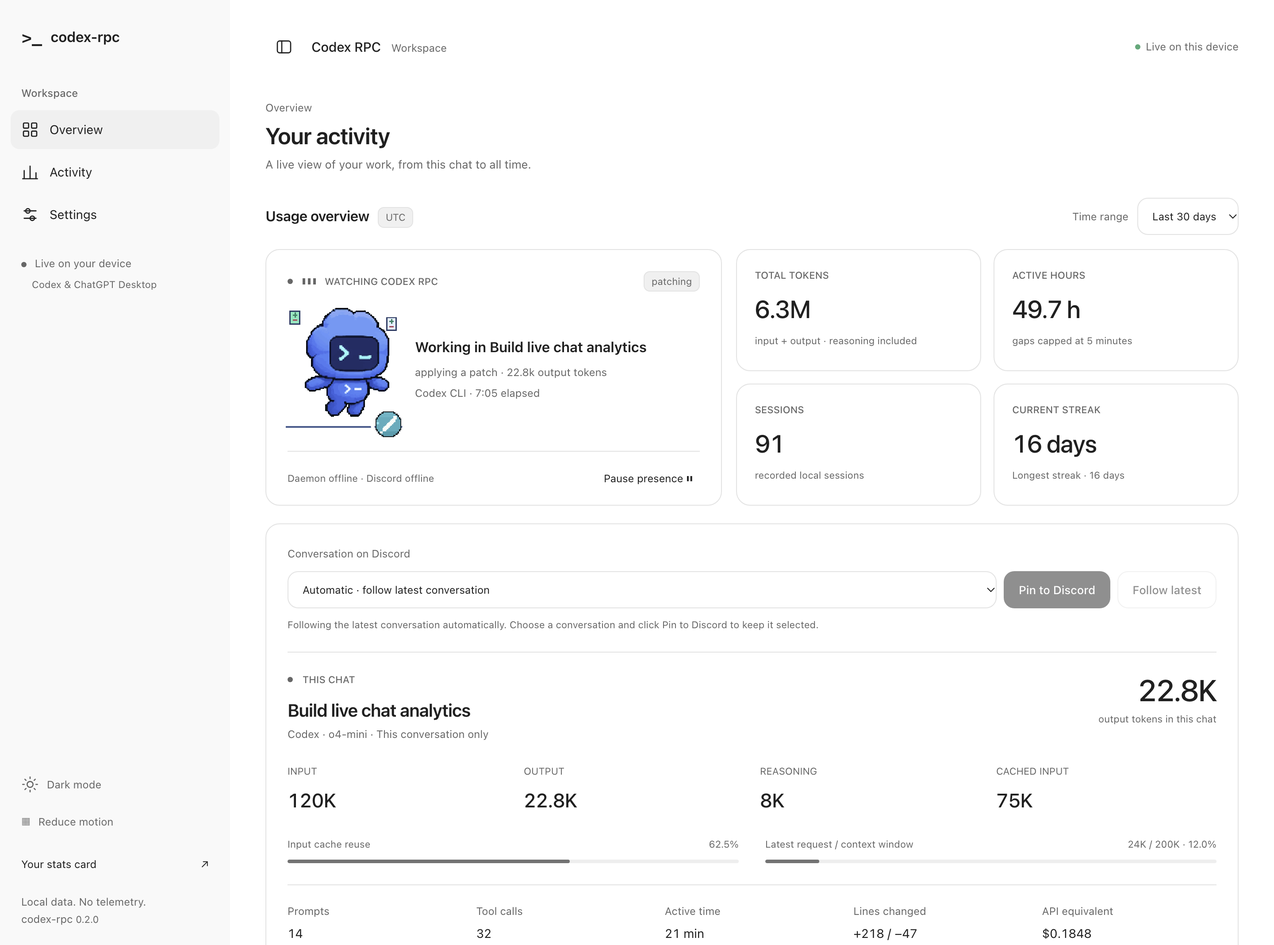
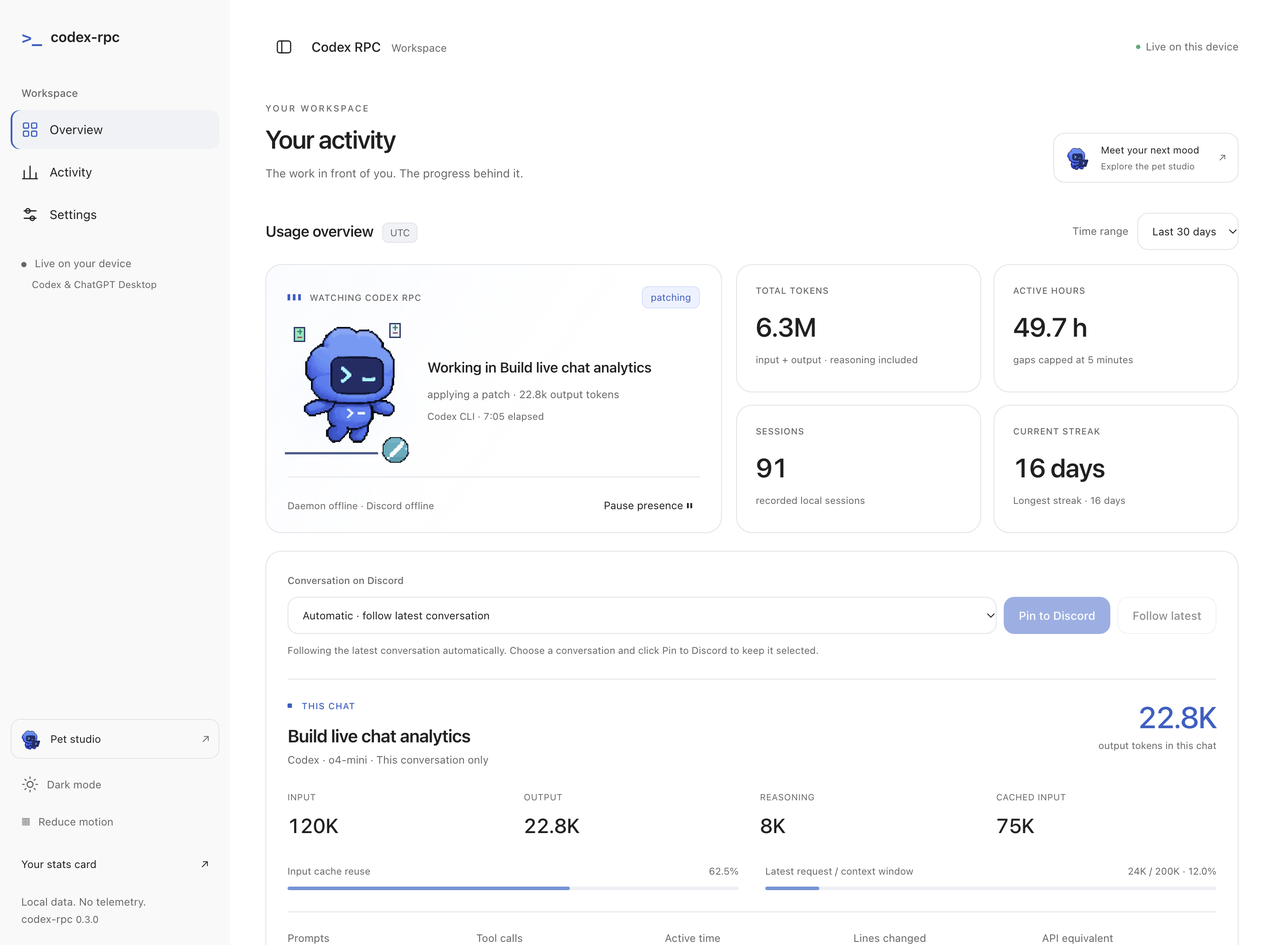
release: prepare 0.3.0 downloads, updated README and pet studio guides

diff --git a/scripts/prepare-release.js b/scripts/prepare-release.js
@@ -3,6 +3,7 @@ import path from "node:path";
 import { execFileSync } from "node:child_process";
 import { createHash } from "node:crypto";
 import { fileURLToPath } from "node:url";
+import { animationCatalog } from "../src/assets/generate-pet-gifs.js";
 const root = fileURLToPath(new URL("../", import.meta.url));
 process.chdir(root);
 const pkg = JSON.parse(fs.readFileSync("package.json", "utf8"));
@@ -18,7 +19,7 @@ const npm = process.platform === "win32" ? "npm.cmd" : "npm";
 const npmCLI = process.env.npm_execpath;
 if (process.platform === "win32" && !npmCLI) throw Error("Run through npm run release:prepare on Windows");
 const packed = JSON.parse(execFileSync(npmCLI ? process.execPath : npm, [...(npmCLI ? [npmCLI] : []), "pack", "--json", "--pack-destination", directory], { encoding: "utf8" }))[0];
-for (const required of ["src/selection.js", "src/timeline.js", "src/watcher.js", "src/config.js", "src/presence-scheduler.js", "src/recaps.js", "bin/codex-rpc.js", "assets/pet/codex-pet-writing.gif", "assets/pet/codex-pet-patching.gif", "assets/pet/codex-pet-error.gif", "assets/pet/codex-pet-done.gif"]) {
+for (const required of [...animationCatalog.flatMap(({ id }) => [`assets/pet/codex-pet-${id}.gif`, `assets/pet/codex-pet-${id}.svg`]), "assets/pet/animation-gallery.js", "assets/pet/animation-catalog.json", "src/selection.js", "src/timeline.js", "src/watcher.js", "src/config.js", "src/presence-scheduler.js", "src/recaps.js", "bin/codex-rpc.js", "assets/pet/codex-pet-writing.gif", "assets/pet/codex-pet-patching.gif", "assets/pet/codex-pet-error.gif", "assets/pet/codex-pet-done.gif"]) {
   if (!packed.files.some((entry) => entry.path === required)) throw Error(`Missing package file: ${required}`);
 }
 // Stable filename keeps GitHub /releases/latest/download links evergreen.

diff --git a/README.md b/README.md
@@ -8,7 +8,7 @@
 
 Discord Rich Presence and local analytics for Codex, with lightweight ChatGPT Desktop detection.
 
-[Download latest](https://github.com/alphasayshello/codex-rpc/releases/latest) · [Release notes](docs/RELEASE-NOTES-v0.2.0.md) · [MIT](LICENSE) · [Security](SECURITY.md)
+[Download latest](https://github.com/alphasayshello/codex-rpc/releases/latest) · [Release notes](docs/RELEASE-NOTES-v0.3.0.md) · [MIT](LICENSE) · [Security](SECURITY.md)
 
 Node 18+ · zero runtime dependencies · no accounts · no telemetry
 
@@ -64,16 +64,28 @@ Thinking shows `Pondering solution... (Elapsed: 1:05)`. Shell work shows `Runnin
 | State | Preview | What it does |
 | --- | --- | --- |
 | Writing | <img src="assets/pet/codex-pet-writing.gif" width="88" alt="Steady seated typing" /> | Alternating paw presses; head, body and laptop stay still. |
-| Thinking | <img src="assets/pet/codex-pet-thinking.gif" width="88" alt="Planning" /> | Pacing, planning glyphs and a thoughtful pose. |
-| Patching | <img src="assets/pet/codex-pet-patching.gif" width="88" alt="Applying a patch" /> | Stamping and sliding pixel file cards. |
+| Thinking | <img src="assets/pet/codex-pet-thinking.gif" width="88" alt="Planning" /> | A gentle pace, orbiting planning pixels and a steady thoughtful expression. |
+| Patching | <img src="assets/pet/codex-pet-patching.gif" width="88" alt="Applying a patch" /> | Focused movement and sliding plus/minus file cards. |
 | Error | <img src="assets/pet/codex-pet-error.gif" width="88" alt="An error needs attention" /> | Smoke, an alert and the original panic expression. |
 | Done | <img src="assets/pet/codex-pet-done.gif" width="88" alt="Celebrating" /> | A short celebration, then idle. |
 | Idle | <img src="assets/pet/codex-pet-idle.gif" width="88" alt="Sleeping" /> | Sleeping, breathing and floating Z pixels. |
-| Waiting | <img src="assets/pet/codex-pet-waiting.gif" width="88" alt="Waiting for approval" /> | A separate approval/attention wave. |
+| Waiting | <img src="assets/pet/codex-pet-waiting.gif" width="88" alt="Waiting for approval" /> | A separate attention pose with bobbing speech-bubble dots. |
 
-The mascot is the **original blue Codex Pet**, composed from its existing sprite artwork. Loops run at 10 fps with a consistent expression within each state. Static previews and animated pixel badges ship too. Legacy `working` remains an alias for `writing`.
+The mascot is the **original blue Codex Pet**, composed from its existing sprite artwork. All 19 scenes run at 20 fps with periodic motion and a consistent expression within each scene. Static previews and animated pixel badges ship too. Legacy `working` remains an alias for `writing`.
 
-Preview everything in **Settings → Codex Pet Assets → Preview animated pets**, or open `/assets/pet/animation-gallery.html` on your local dashboard. **Reduce motion** freezes bundled artwork and disables effects; OS reduced-motion preferences are respected. Live updates preserve animations already playing.
+**Twelve extra scenes:** reading, searching, terminal, testing, building, installing, reviewing, debugging, connecting, focus, celebrating and cozy idle.
+
+<table>
+<tr><td align="center"><img src="assets/pet/codex-pet-reading.gif" width="104" alt="Reading a pixel book" /><br>Reading</td><td align="center"><img src="assets/pet/codex-pet-terminal.gif" width="104" alt="Typing beside a terminal" /><br>Terminal</td><td align="center"><img src="assets/pet/codex-pet-testing.gif" width="104" alt="Checking a test matrix" /><br>Testing</td><td align="center"><img src="assets/pet/codex-pet-idle-cozy.gif" width="104" alt="Sleeping under moonlight" /><br>Cozy idle</td></tr>
+</table>
+
+Real tool metadata selects reading, searching, terminal, testing, building, installing and reviewing automatically. Missing metadata keeps the normal writing scene. Extra decorative scenes are available as asset overrides; the daemon never invents activity or cycles them at random.
+
+Open **Pet studio** in the dashboard for a larger preview, search, category filters, dark/light/checkerboard backgrounds, GIF/SVG downloads and copyable hosted URLs. In **Settings → Codex Pet Assets**, choose a target state and click a thumbnail to change its art, then **Save changes**. Automatic scene selection continues to follow your tools. The studio is also available at `/assets/pet/animation-gallery.html`.
+
+**Make your own pet.** Pet Studio includes an editable character brief and a one-pass ChatGPT image prompt with the exact 1536 × 1872 transparent PNG sheet, 8 × 9 grid, pose map and typing alignment requirements. Copy it into ChatGPT with your character reference and the downloadable layout guide. Generated sheets require manual validation and integration; the studio does not automatically replace the bundled artwork. [Format guide](docs/PET-STUDIO.md). **Reduce motion** freezes bundled artwork and disables effects; OS reduced-motion preferences are respected. Live updates preserve animations already playing.
+
+<img src="docs/pet-studio.png" width="1000" alt="Local Pet studio with large animated preview, motion controls and a browsable collection" />
 
 Artwork provenance and composition details: [asset manifest](assets/pet/manifest.json) · [third-party notices](THIRD_PARTY_NOTICES.md).
 
@@ -86,7 +98,7 @@ Artwork provenance and composition details: [asset manifest](assets/pet/manifest
 - **Review each turn.** Recaps show output-token deltas, observed tool calls, elapsed time and outcomes. Missing baselines stay unknown.
 - **Explore lifetime usage.** Tokens, sessions, active hours, streaks, languages, tools, hotspots, hourly patterns and estimated cost.
 - **Choose a range.** 7d, 30d, 90d, 1y or all time. The current-chat panel stays independent of the history range.
-- **Make it yours.** Dark/light themes, mobile navigation, keyboard-accessible settings and seven settings tabs.
+- **Make it yours.** Dark/light themes, mobile navigation, keyboard-accessible settings and seven settings tabs. A visual picker offers 19 pet scenes, with pixel badges and a dedicated preview studio.
 
 The dashboard binds to loopback only and updates over SSE. Optional Electron wraps the same dashboard with Node integration disabled:
 
@@ -108,7 +120,7 @@ Electron is optional and is not part of the normal CLI runtime.
 | `chat [--json] [--watch]` | Current-chat usage, tools, cost and context. |
 | `usage [--watch]` | Heatmap, usage bars, hourly activity, tools and languages. |
 | `insights` | Weekly trends, hotspots, pace and streak context. |
-| `preview` | Card text and asset URLs for six scenes plus waiting. |
+| `preview [--all]` | Exact card text and asset URLs; `--all` includes all 19 scenes. |
 | `serve [--port 47474]` | Local dashboard and settings. |
 | `statcards [--output ./statcards]` | SVG stats card, year heatmap, badges and Markdown. |
 | `doctor` | Check Node, hooks, detector, daemon, Discord IPC, freshness and privacy. |
@@ -163,7 +175,7 @@ Use `CODEX_RPC_HOME` for an alternate state directory and `CODEX_HOME` for an al
 
 The default application ID is `1565535814308470814`. To use your own, create an app in the [Discord Developer Portal](https://discord.com/developers/applications) and enter its **Application ID** in settings. No bot token or client secret is needed.
 
-For each state, enter an uploaded Discord asset key (`anim_typing_large`) or a direct public HTTPS GIF URL. A custom badge overrides automatic tool badges. Uploaded application art may be static; Discord controls animation, proxying and caching. Setup refreshes old bundled URLs while preserving custom hosts. The writing fix uses a new URL version to avoid stale cached images.
+For each state, enter an uploaded Discord asset key (`anim_typing_large`) or a direct public HTTPS GIF URL. A custom badge overrides automatic tool badges. Uploaded application art may be static; Discord controls animation, proxying and caching. Setup refreshes old bundled URLs while preserving custom hosts. The smoother assets use a new URL version to avoid stale cached images.
 
 ### Windows
 
@@ -199,6 +211,6 @@ npm run release:prepare -- --sea
 
 Normal runtime supports Node 18+. Some Homebrew Node builds disable SEA; standalone builds need an official SEA-enabled build. Output goes to `dist/release/<platform>-<arch>/`, with versioned archives, the stable `codex-rpc.tgz` alias, release notes and checksums. Native executables must be built on each target platform.
 
-[Release checklist](docs/RELEASE.md) · [Paste-ready v0.2.0 notes](docs/RELEASE-NOTES-v0.2.0.md) · [Verification](docs/VERIFICATION.md) · [Versioning](VERSIONING.md)
+[Release checklist](docs/RELEASE.md) · [Paste-ready v0.3.0 notes](docs/RELEASE-NOTES-v0.3.0.md) · [Verification](docs/VERIFICATION.md) · [Versioning](VERSIONING.md)
 
 Inspired by [rar-file/claude-rpc](https://github.com/rar-file/claude-rpc): three small Node pieces joined by JSON, adapted independently for Codex. Unaffiliated with OpenAI or Discord. Original project code is MIT; bundled OpenAI artwork has separate provenance.

diff --git a/docs/RELEASE.md b/docs/RELEASE.md
@@ -1,6 +1,6 @@
-# codex-rpc 0.2.0 — release candidate
+# codex-rpc 0.3.0 — release candidate
 
-Six animated pet states with steady typing paws, live file/diff telemetry, operation timers, turn recaps, Windows hidden launches, chat pinning and a dark/light dashboard.
+Nineteen smooth pet scenes, automatic tool-aware animation selection, a visual settings picker and an interactive Pet studio, alongside live telemetry, analytics and chat pinning.
 
 This is a GitHub-only release. The unscoped npm name `codex-rpc` belongs to an unrelated project. Do not use `npx codex-rpc@latest` or `npm publish` for this repository. The package is marked private to prevent accidental registry publication; the tarball still installs normally.
 
@@ -10,8 +10,8 @@ This is a GitHub-only release. The unscoped npm name `codex-rpc` belongs to an u
 2. Wait for the **verify** workflow: all nine macOS/Linux/Windows × Node 18/22/26 jobs must pass. Resolve failures before tagging.
 3. Run **Build release archives** from GitHub Actions → Run workflow → `main`. It tests and builds each native platform with official Node 26, then uploads archives and checksums. It does not publish a release.
 4. Download and extract all three workflow artifacts. Test each native binary and background service on its target OS before claiming native installer coverage. macOS binaries are ad-hoc signed, not notarized; Windows binaries are not Authenticode signed.
-5. Create and push the release tag only after checks: `git tag -a v0.2.0 -m "codex-rpc 0.2.0"` then `git push origin v0.2.0`. Tagging also builds archives again from that exact commit; use these final artifacts.
-6. Create a draft GitHub release for `v0.2.0`. Paste [RELEASE-NOTES-v0.2.0.md](RELEASE-NOTES-v0.2.0.md) into the release body. Upload both `codex-rpc.tgz` and `codex-rpc-0.2.0.tgz` from one platform build, plus each platform executable and the matching checksums (rename each platform's SHA256SUMS to avoid duplicate filenames). Review then publish manually.
+5. Create and push the release tag only after checks: `git tag -a v0.3.0 -m "codex-rpc 0.3.0"` then `git push origin v0.3.0`. Tagging also builds archives again from that exact commit; use these final artifacts.
+6. Create a draft GitHub release for `v0.3.0`. Paste [RELEASE-NOTES-v0.3.0.md](RELEASE-NOTES-v0.3.0.md) into the release body. Upload both `codex-rpc.tgz` and `codex-rpc-0.3.0.tgz` from one platform build, plus each platform executable and the matching checksums (rename each platform's SHA256SUMS to avoid duplicate filenames). Review then publish manually.
 
 GitHub release page: https://github.com/alphasayshello/codex-rpc/releases/new
 
@@ -45,6 +45,6 @@ For a native binary, run `npm run release:prepare -- --sea` with an official SEA
 
 Pinning stays in local `selection.json`; it never changes a Codex conversation. A pinned inactive or removed chat stays idle rather than leaking another conversation. Private mode redacts names and files. Tool outcomes are best-effort metadata from logs, not a security audit; interrupted calls can have unknown results. Desktop process observation cannot invent chat tokens. Costs are API-equivalent estimates, not subscription bills. No telemetry or automatic analytics publishing.
 
-Before publication, check six hosted asset URLs from config.example.json against committed hashes and confirm the visual scenes in Discord. For Windows, verify at least 15 seconds of detector polling without console flashes, scanner startup, and fresh-login autostart. The native console-visibility probe must pass in the Windows CI jobs. The local macOS build cannot certify those Windows-specific behaviors.
+Before publication, check all 20 hosted GIF asset URLs (19 scenes plus legacy working alias) from config.example.json against committed hashes and confirm the visual scenes in Discord. For Windows, verify at least 15 seconds of detector polling without console flashes, scanner startup, and fresh-login autostart. The native console-visibility probe must pass in the Windows CI jobs. The local macOS build cannot certify those Windows-specific behaviors.
 
 Always attach **codex-rpc.tgz** to every published release. It is byte-identical to the versioned tarball and keeps the README latest-install URL working without a README edit. The build copies paste-ready release notes to RELEASE-NOTES.md; RELEASE.md is the maintainer checklist, not the public release body. No release is published by the build script.

diff --git a/docs/VERIFICATION.md b/docs/VERIFICATION.md
@@ -56,3 +56,15 @@ Local final release preparation produced the installable 0.2.0 archive and macOS
 Writing correction: writing/working now freeze the original laptop pose outside the bounded hand/keyboard region. Both sampled paws alternate press/release motions; head, body outline, feet and laptop pixels stay fixed. Asset tests check both hands change across phases and every pixel outside that region is unchanged. The writing scene no longer uses whole-body translation or flying-card/speed effects. Other scenes retain their existing motion.
 
 Typing correction verification: 134 local tests pass, with the one native-Windows-only test skipped on macOS. All eight asset tests also pass on Node18, generated bytes match Node18/26, the desktop/mobile renderer checks pass, and the local gallery serves the corrected writing GIF byte-for-byte. Independent GIF decoding confirms that no pixels outside the hand/keyboard region move.
+
+
+## 0.3.0 pet collection
+
+The new collection contains 19 distinct scenes plus the legacy working/writing alias. All pet GIFs encode 50 ms frames (20 fps); the generated catalog records their loop lengths, families and asset paths. The original face remains consistent within each scene, integer movement preserves source pixels, and writing/terminal/testing/installing retain the fixed laptop pose outside the sampled hand/keyboard region. Independent GIF decoding checks transparency, disposal, all frames and meaningful intermediate paw positions. Motion tests bound translation steps and the loop seam; every GIF remains below 1 MB.
+
+The local animation catalog and all 40 GIF/SVG routes are exercised by server and real renderer checks. The dashboard picker requires an explicit Save, preserves draft configuration across SSE, and uses matching SVGs in reduced-motion mode. Pet studio checks cover all/live/extra filters, family/search/empty results, keyboard navigation, backgrounds, pause, reduced motion and persistence. Clipboard feedback is tested with a mock so verification does not overwrite the user's clipboard. Desktop and 430 px screenshots use synthetic data.
+
+On 2026-10-30, the full suite passed on Node 18 and 26: 148 tests total, 147 passed and one native-Windows-only check skipped on macOS. Final CLI, scene-selection and server checks passed again after the asset migration update; the final browser run passed with zero JavaScript errors. The local 0.3.0 tarball and macOS ARM64 SEA binary were built and smoke-tested. Cross-platform CI, the new hosted GIF URLs and the real Discord rendering of this expanded collection require the next source push. The existing installed daemon was left running during development; the refreshed local dashboard serves the new collection immediately.
+
+
+Pet Studio's custom-character prompt is generated locally from an editable brief. Format tests compare the requested sheet geometry and seven sampled anchor cells with the actual generator and source PNG, and verify the fixed typing region. The prompt explicitly distinguishes a source sheet from the 19 runtime GIF scenes and explains manual rig validation. The downloadable layout reference is checked as a real 1536 × 1872 PNG. Browser checks cover brief editing, literal special characters, copy/reset, dimensions and responsive layout; no prompt is sent to a remote service by the studio.

diff --git a/docs/RELEASE-NOTES-v0.3.0.md b/docs/RELEASE-NOTES-v0.3.0.md
@@ -1,0 +1,37 @@
+# codex-rpc v0.3.0 — A pet for every little task
+
+More expressive Discord presence, smoother pixel animation, and a Pet studio for the original blue Codex companion.
+
+## New
+
+- **19 distinct scenes.** The seven existing live scenes are joined by reading, searching, terminal, testing, building, installing, reviewing, debugging, connecting, focus, celebrating and cozy idle. The legacy working GIF remains a writing alias.
+- **20 fps loops.** Periodic movement replaces abrupt position changes. Each scene keeps one consistent original expression, with crisp pixel props and transparent backgrounds. Every GIF stays under 1 MB.
+- **Real typing paws.** Alternating presses have intermediate positions at 50 ms intervals. The head, body, feet and laptop stay fixed.
+- **Tool-aware art.** Available tool names and safe command summaries choose reading, searching, terminal, testing, building, installing or reviewing. Errors, approval and bounded success retain their own states. No random activity or invented progress.
+- **Pet studio.** Large previews, scene search, category/family filters, dark/light/checkerboard backgrounds, pause, reduced motion, GIF/SVG downloads and copyable hosted URLs.
+- **Create-a-pet prompt.** Describe a character and copy a detailed one-pass ChatGPT image prompt. Exact sheet dimensions, a 72-cell pose layout, identity consistency, transparent background and typing alignment are included, with a downloadable layout reference. Generated sheets require manual validation and integration.
+- **Visual settings picker.** Choose a target state, select one of 19 thumbnails, then save. Existing custom image hosts and legacy working overrides remain supported.
+- **Dashboard polish.** Clearer hierarchy, calmer surfaces, blue pet accents, refined activity chips and responsive layouts in dark and light themes.
+- **Preview every scene.** `codex-rpc preview --all` prints the exact card text and asset URLs for all 19 scenes. `/api/animations` exposes the bundled catalog locally.
+
+## Install or update
+
+With Node 18+ and Discord Desktop running:
+
+```sh
+npm install -g https://github.com/alphasayshello/codex-rpc/releases/latest/download/codex-rpc.tgz
+codex-rpc setup
+codex-rpc serve
+```
+
+Open **http://localhost:47474**, then **Pet studio**. Setup refreshes the installed runtime and owned asset URLs while preserving analytics, privacy preferences and custom hosts. Make sure the matching source assets have been pushed before activating the new defaults.
+
+This is a GitHub-only release. The unscoped npm name belongs to another project; use the GitHub archive above.
+
+## Downloads and limits
+
+Attach `codex-rpc.tgz` (the stable latest-install alias), `codex-rpc-0.3.0.tgz`, checksums, and only the standalone binaries actually built and tested. Standalone binaries bundle Node. The optional Electron wrapper remains available from source.
+
+Local analytics and privacy behavior remain unchanged. Rich tool scenes depend on metadata present in local logs; decorative scenes can be assigned in settings. Discord controls remote GIF animation and caching. No account token, telemetry or analytics upload is required.
+
+See the [README](https://github.com/alphasayshello/codex-rpc#readme) and [security model](https://github.com/alphasayshello/codex-rpc/blob/main/SECURITY.md).

diff --git a/VERSIONING.md b/VERSIONING.md
@@ -1,6 +1,6 @@
 # Versioning
 
-codex-rpc follows Semantic Versioning. The current release candidate is 0.2.0; the initial source version was 0.1.0.
+codex-rpc follows Semantic Versioning. The current release candidate is 0.3.0; the initial source version was 0.1.0.
 
 - Patch: compatible bug fixes, parser coverage, asset corrections, docs.
 - Minor: additive commands/settings/metrics and integrations. Before 1.0, breaking changes may appear in a minor with migration notes.
@@ -10,6 +10,6 @@ codex-rpc follows Semantic Versioning. The current release candidate is 0.2.0; t
 
 Prices are dated estimates and may be updated in patch releases. Asset filenames and state names are stable public interfaces. A mascot redraw preserving those names is compatible. New lifecycle log shapes are best-effort parser additions, never grounds to fabricate missing metrics.
 
-Release checklist: regenerate assets; run `npm run check` and `npm test`; inspect the dashboard and all six visual states plus approval waiting; run `npm pack --dry-run`; build/test SEA using an official SEA-enabled Node; update verification notes and release changes; bump all versions; commit and tag `vX.Y.Z`. Test OS-specific installers on target platforms before claiming installed-service coverage. Publish npm/packages and public Git remotes only as a separate, explicit release action. This release uses GitHub downloads only; the unscoped npm name is owned by another project. Package metadata is private to prevent accidental npm publication. See docs/RELEASE.md for archive preparation and manual publication.
+Release checklist: regenerate assets; run `npm run check` and `npm test`; inspect the dashboard and all 19 scenes and approval waiting; run `npm pack --dry-run`; build/test SEA using an official SEA-enabled Node; update verification notes and release changes; bump all versions; commit and tag `vX.Y.Z`. Test OS-specific installers on target platforms before claiming installed-service coverage. Publish npm/packages and public Git remotes only as a separate, explicit release action. This release uses GitHub downloads only; the unscoped npm name is owned by another project. Package metadata is private to prevent accidental npm publication. See docs/RELEASE.md for archive preparation and manual publication.
 
 The latest release receives security fixes. Older 0.x versions are not maintained separately. Keep source logs if you need to rebuild analytics after a schema migration.

diff --git a/THIRD_PARTY_NOTICES.md b/THIRD_PARTY_NOTICES.md
@@ -9,6 +9,6 @@ The blue Codex companion is existing OpenAI artwork, not original codex-rpc artw
 - Original WebP bytes and a losslessly decoded RGBA PNG are retained in `assets/pet/source/`.
 - `assets/pet/manifest.json` records SHA-256 hashes, exact source rows, frame counts and GIF timings.
 
-Generated GIFs quantize the original frames to a shared 256-color GIF palette. PNG/SVG previews preserve source RGBA pixels, except hidden RGB under fully transparent pixels is cleared. Badges resize an original idle frame. Banner, dashboard and stat-card images embed these source-derived previews. Selected original frames are held longer and repeated to keep expressions calm; no replacement character or new character pose is drawn. The separate colored status-circle/check/terminal icons are original code-rendered UI glyphs covered by MIT, not third-party mascot artwork.
+Generated GIFs quantize the original frames to a shared 256-color GIF palette. PNG/SVG previews preserve source RGBA pixels, except hidden RGB under fully transparent pixels is cleared. Badges resize an original idle frame. Banner, dashboard and stat-card images embed these source-derived previews. Each scene keeps one original expression. Smooth integer translations and separately authored pixel props animate the source pose; typing articulates sampled original paw pixels within a bounded keyboard region while keeping the head, body outline, feet and laptop fixed. No replacement character is generated. The original pixel effects and gallery code are covered by MIT; source-derived pet artwork remains third-party artwork. The separate colored status-circle/check/terminal icons are original code-rendered UI glyphs covered by MIT, not third-party mascot artwork.
 
 These images remain third-party artwork. The repository's MIT grant covers the original code and does not purport to relicense OpenAI's artwork or trademarks. The download service did not provide a separate artwork license. This independent utility is not an OpenAI product or an endorsement.
